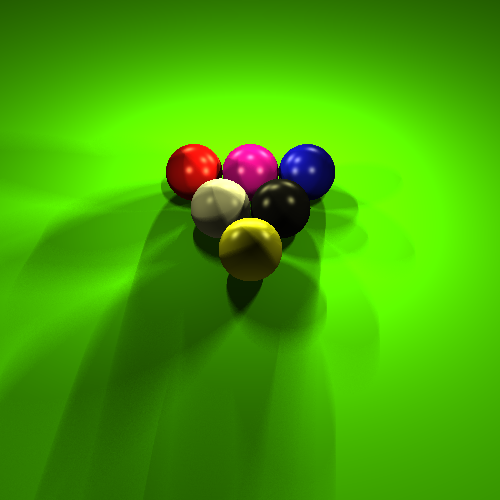
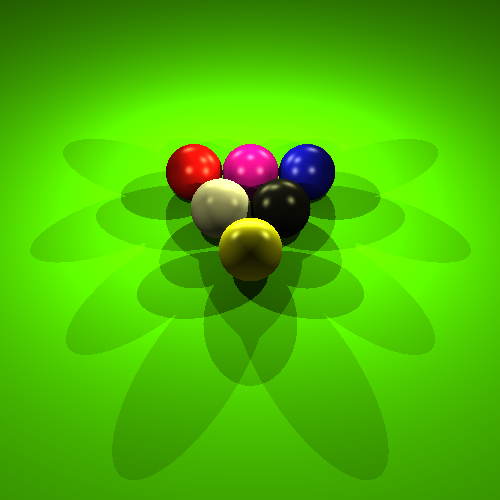
Rect now works for hard shadows ( instead of duplicate code)

diff --git a/Ray-Tracing/src/RayTrace/Rect.java b/Ray-Tracing/src/RayTrace/Rect.java
@@ -15,21 +15,26 @@ import java.util.Random;
     	Random rand = new Random();
     	public Rect(Vector tar,Vector dir1,Vector dir2, double radius,int N,Light lgt) {
     		raygrid = new Ray[N][N];
-    		
-    		dir1= dir1.prod(radius/(dir1.size()));
-    		dir2= dir2.prod(radius/(dir2.size()));
-    		p_0 = lgt.pos.plus(dir1.plus(dir2));
-    		i_step = dir1.prod(1/((double)N));
-    		j_step = dir2.prod(1/((double)N));
-    		for(int i=0; i<N;i++) {
-    			for(int j=0;j<N;j++) {
-    				src = p_0.plus(i_step.prod(i+rand.nextDouble())); //rand.nextDouble()
-    				src = p_0.plus(j_step.prod(j+rand.nextDouble())); //rand.nextDouble()
-    				direction = new Vector(src,tar);
-    				raygrid[i][j] = new Ray(src,direction,lgt);
-    			}
+    		if(N == 1) {
+    			raygrid[0][0] = new Ray(lgt.pos,new Vector(lgt.pos,tar),lgt);
     		}
-    		
+    		else {
+	    		dir1= dir1.prod(radius/(dir1.size()));
+	    		dir2= dir2.prod(radius/(dir2.size()));
+	    		p_0 = lgt.pos.plus(dir1.plus(dir2));
+	    		i_step = dir1.prod(1/((double)N));
+	    		j_step = dir2.prod(1/((double)N));
+
+	    		for(int i=0; i<N;i++) {
+	    			for(int j=0;j<N;j++) {
+	    				src = p_0.plus(i_step.prod(i+0.2+0.8*rand.nextDouble())); //rand.nextDouble()
+	    				src = p_0.plus(j_step.prod(j+0.2+0.8*rand.nextDouble())); //rand.nextDouble()
+	    				direction = new Vector(src,tar);
+	    				raygrid[i][j] = new Ray(src,direction,lgt);
+	    			}
+	    		}
+	    		
+	    	}
     	}
     	
 
